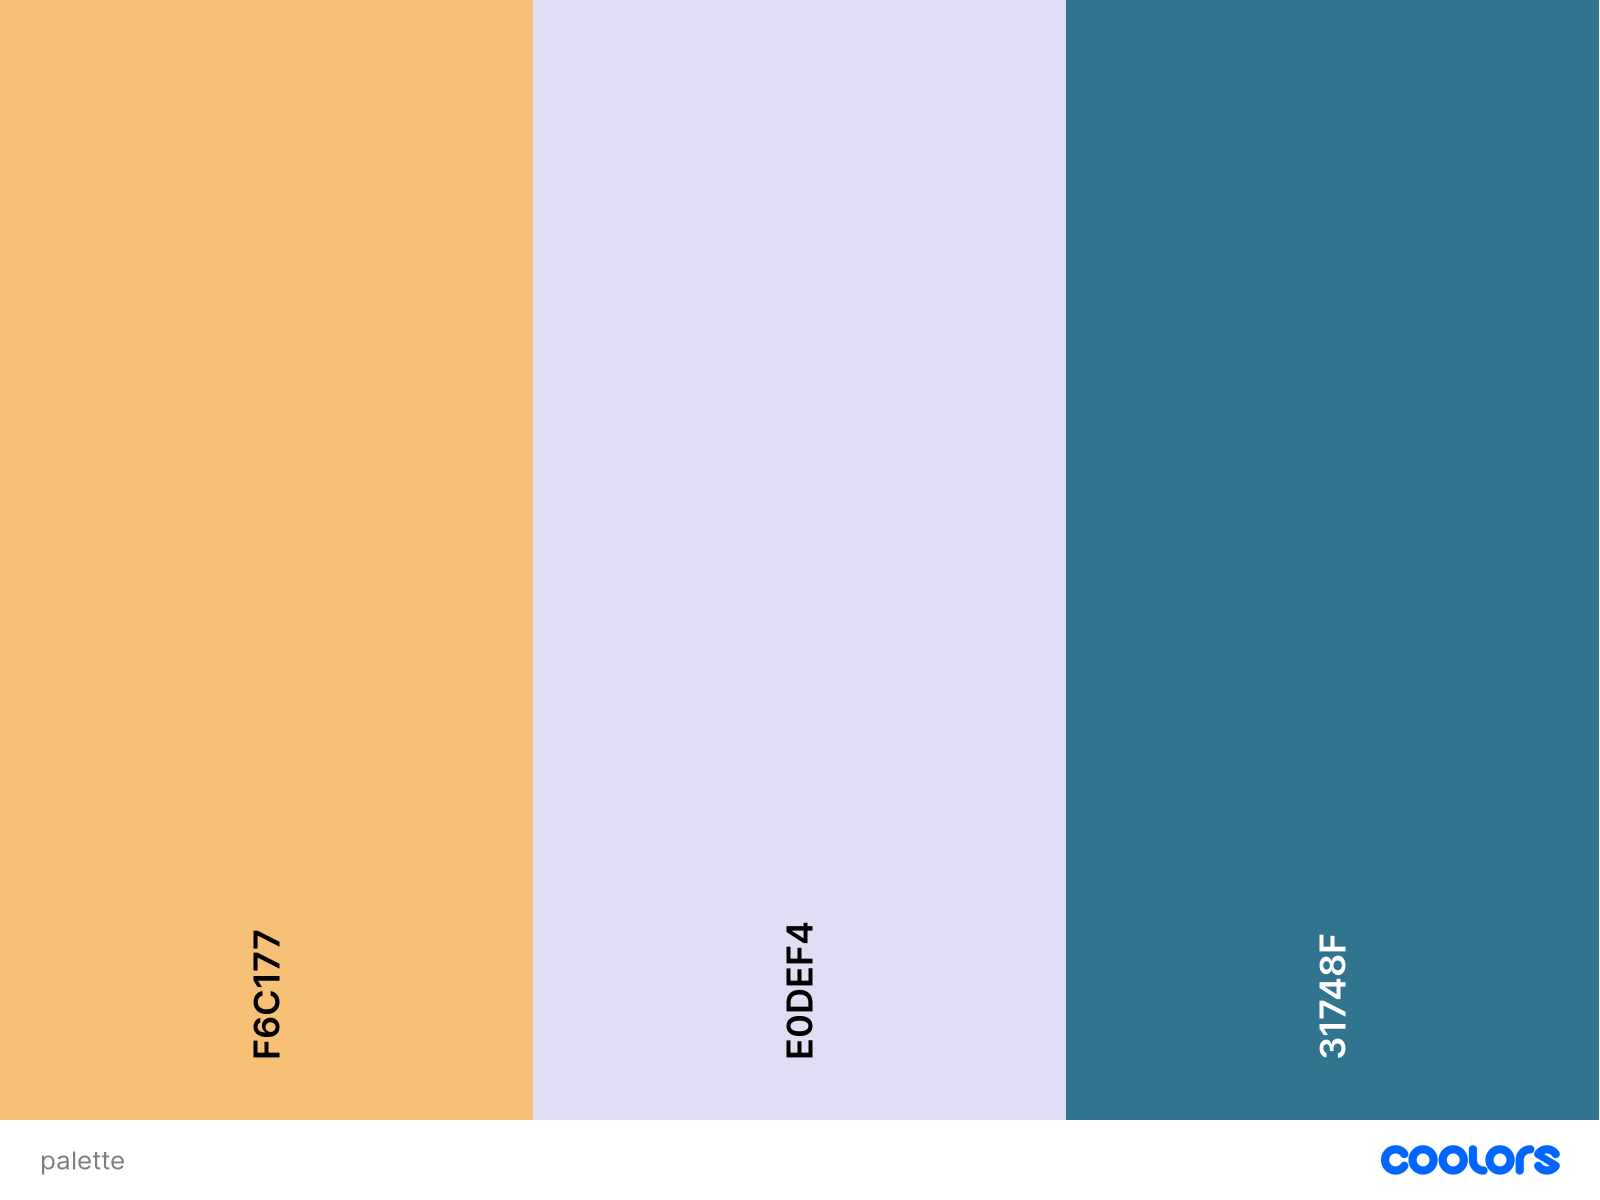
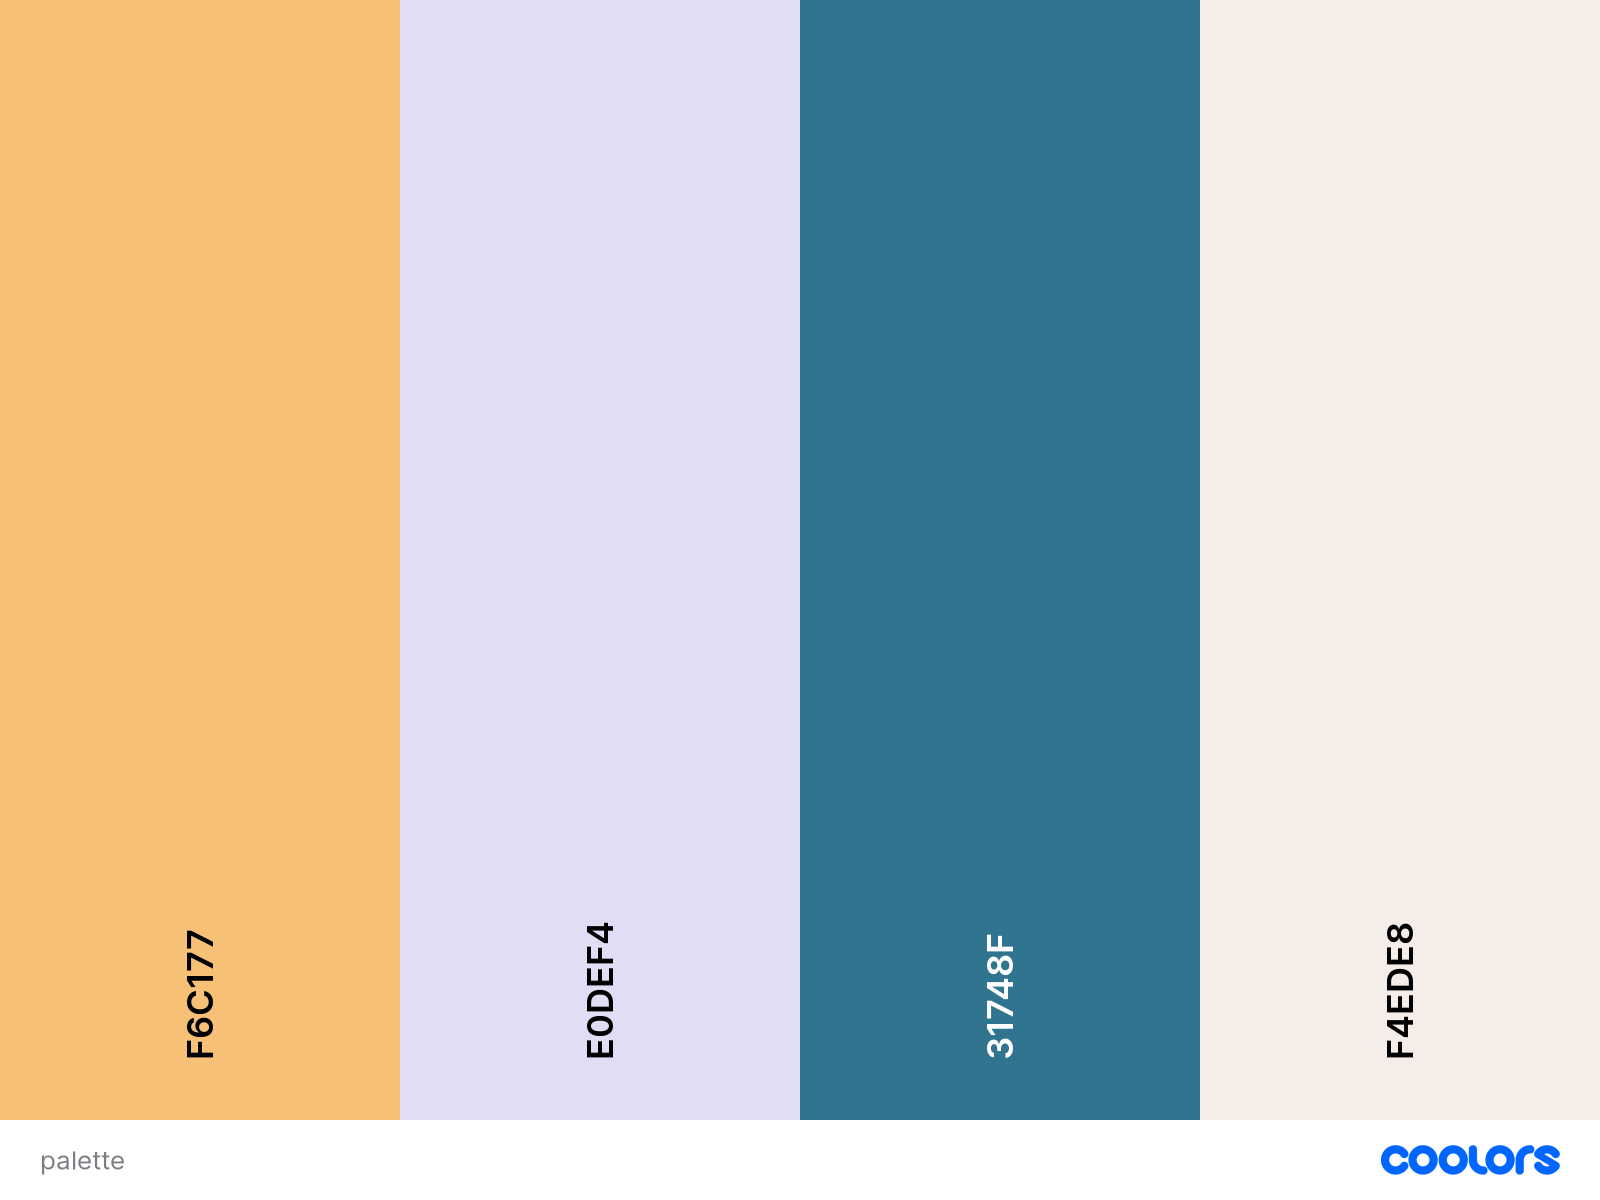
added google font

diff --git a/note.html b/note.html
@@ -7,7 +7,7 @@
     <link href="CSS/style.css" rel="stylesheet">
     <link rel="preconnect" href="https://fonts.googleapis.com">
     <link rel="preconnect" href="https://fonts.gstatic.com" crossorigin>
-    <link href="https://fonts.googleapis.com/css2?family=Roboto:wght@700&display=swap" rel="stylesheet">
+    <link href="https://fonts.googleapis.com/css2?family=Roboto&display=swap" rel="stylesheet">
     <title>Notely: Notes</title>
 </head>
 <body>

diff --git a/index.html b/index.html
@@ -7,7 +7,7 @@
     <link href="CSS/style.css" rel="stylesheet">
     <link rel="preconnect" href="https://fonts.googleapis.com">
     <link rel="preconnect" href="https://fonts.gstatic.com" crossorigin>
-    <link href="https://fonts.googleapis.com/css2?family=Roboto:wght@700&display=swap" rel="stylesheet">
+    <link href="https://fonts.googleapis.com/css2?family=Roboto&display=swap" rel="stylesheet">
     <title>Notely</title>
 </head>
 <body>

diff --git a/CSS/style.css b/CSS/style.css
@@ -1,0 +1,11 @@
+:root{
+    --goldy:#F6C177;
+    --lightbluey:#E0DEF4;
+    --bluey:#31748F;
+    --lightback:#F4EDE8;
+}
+
+
+p{
+    font-family: 'Roboto', sans-serif;
+}

diff --git a/README.md b/README.md
@@ -1,7 +1,7 @@
 # Color Palette for Note Taking Application
 
 ## link to my color palette
-[my color palette](https://coolors.co/f6c177-e0def4-31748f)
+[my color palette](https://coolors.co/f6c177-e0def4-31748f-f4ede8)
 
 ## image of my color palette
 ![my color palette](images/palette.png)
